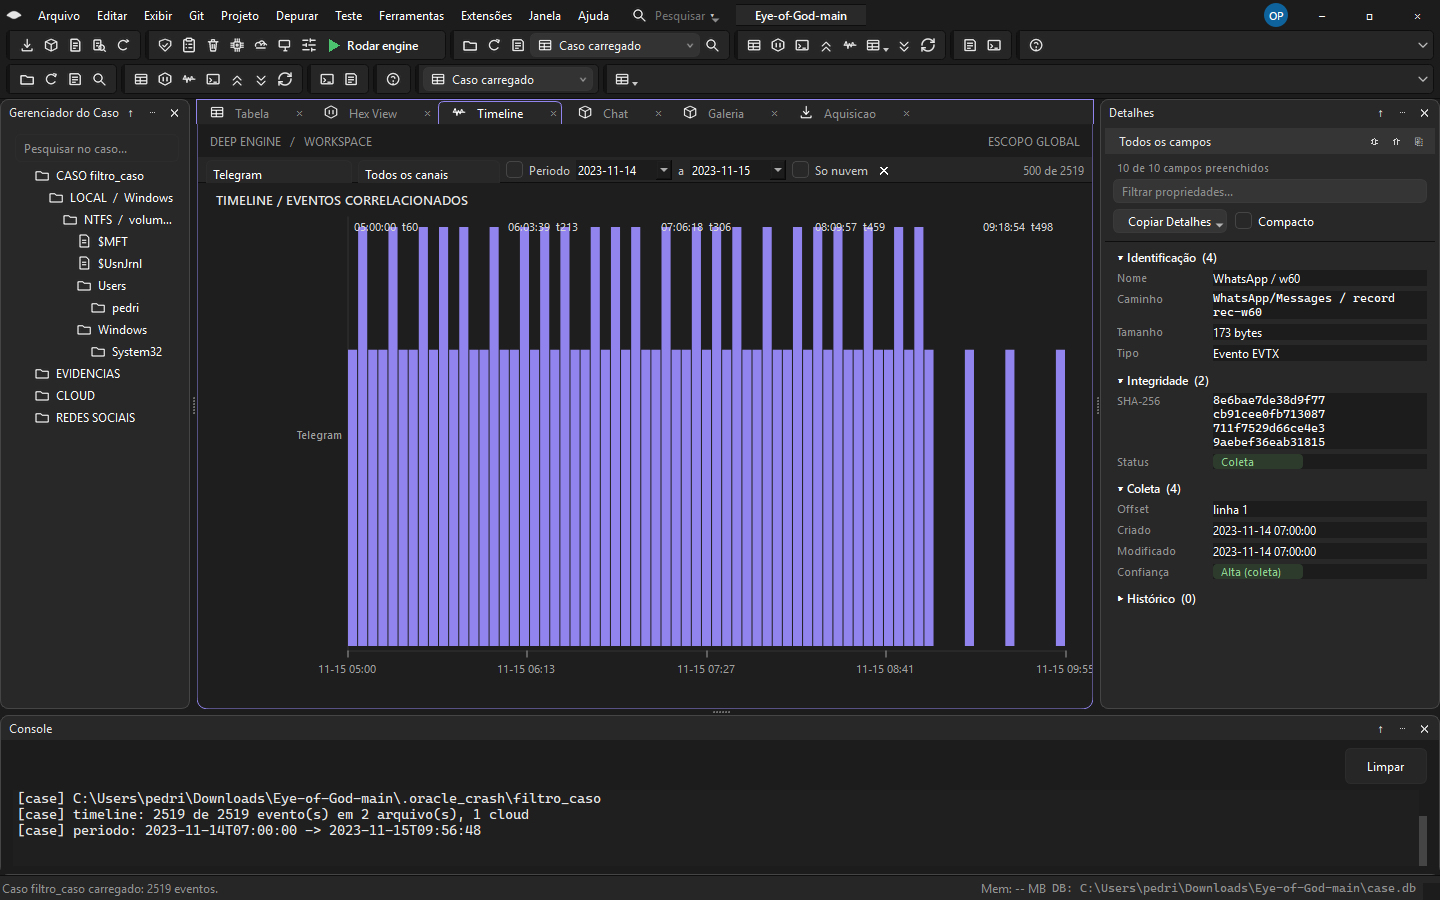
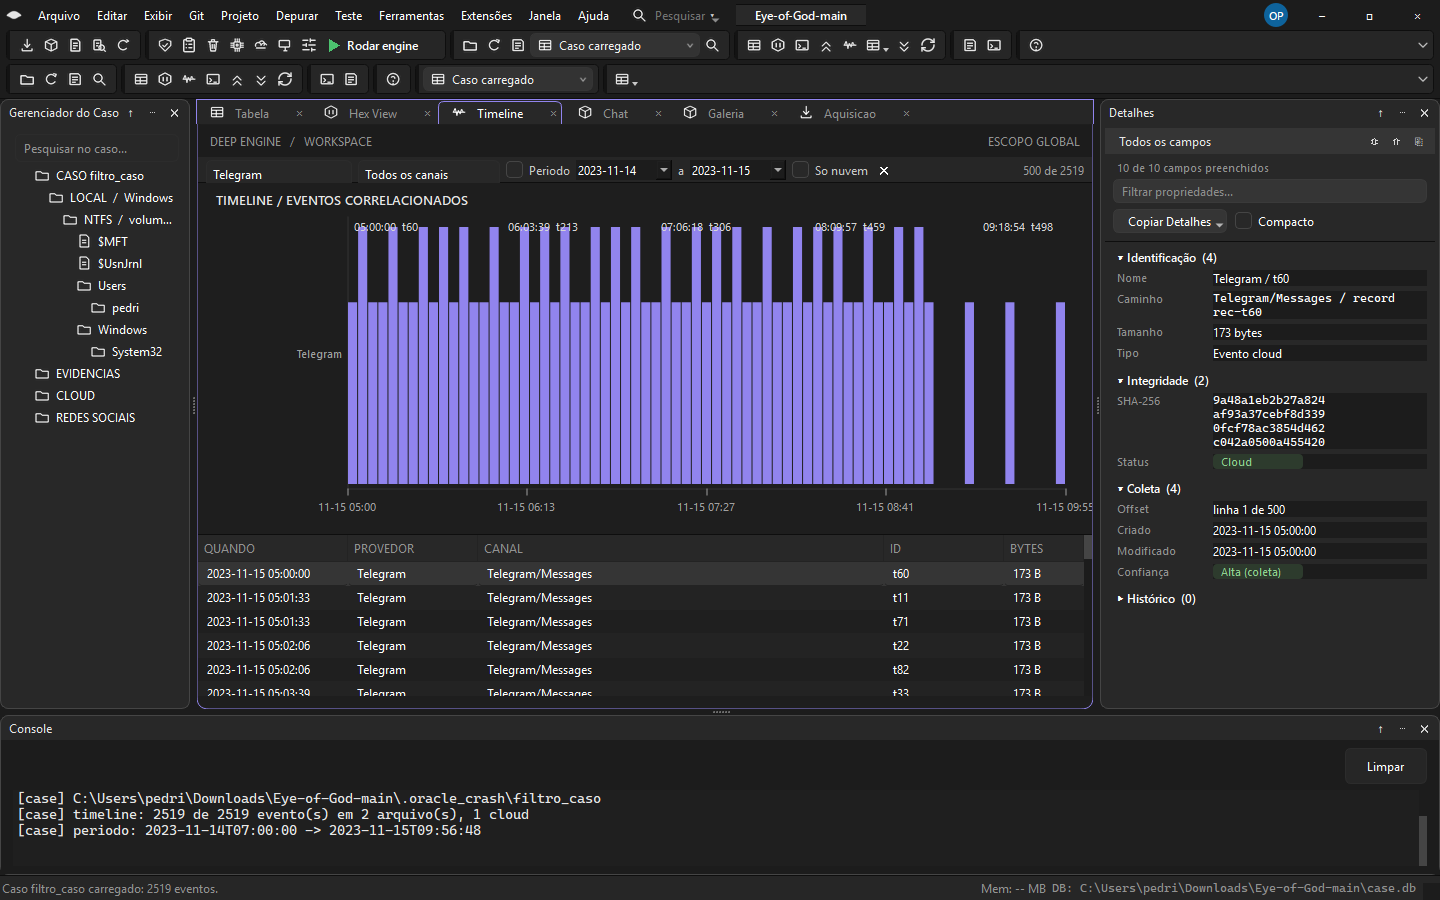
Timeline: give the tab its own event list, filtered with the graph
The filter used to change only the drawing, so the operator had nowhere to read
the events that survived it - the Tabela tab is generic and lists filesystem
artifacts too. The Timeline tab now splits graph + list, both driven by the same
filter, and selecting a row feeds the Details panel and Hex View.

Details filling moved into one helper shared by the generic table and the
timeline list: two copies would drift on the first correction. The filter runs at
the END of apply_timeline, after the table's selection restore - before that, the
table's selectRow(0) overwrote the panel and described an event that was not on
screen (the screenshot caught it: list on Telegram, panel on WhatsApp).

Evidence: the gate now checks the bar number AND the list row count against an
independent PowerShell count of the raw timeline.jsonl - 6/6 (2519 / 500 / 2019 /
500 / 500 / 0). Suite 43/43.

diff --git a/mainwindow.cpp b/mainwindow.cpp
@@ -1118,6 +1118,12 @@ private:
     QDateEdit* timeline_to_ = nullptr;
     QCheckBox* timeline_cloud_only_ = nullptr;
     QLabel* timeline_filter_count_ = nullptr;
+    // Lista propria da Timeline: o filtro vale no grafico E nesta lista. A tabela
+    // generica da aba Tabela continua com a janela inteira, porque ela tambem
+    // lista artefatos do sistema de arquivos.
+    QTableView* timeline_list_ = nullptr;
+    QStandardItemModel* timeline_list_model_ = nullptr;
+    QVector<olho::ui::timeline_event> timeline_filtered_events_;
     QString pending_filter_spec_;   // --filter do modo evidencia, aplicado na carga
     QTimer* timeline_timer_ = nullptr;
     // Progresso da carga: o worker escreve, o timer le. Um atomico por bloco de
@@ -4237,17 +4243,19 @@ private:
         return page;
     }
 
-    void update_details(int row) {
+    /* Um unico lugar preenche o painel Detalhes. A tabela generica e a lista da
+       Timeline chegam por caminhos diferentes, mas tem que mostrar a MESMA ficha:
+       duas copias divergiriam na primeira correcao. */
+    void fill_details(const QString& name, const QString& path, const QByteArray& raw,
+                      const QDateTime& when, const QString& status, const QString& type,
+                      const QString& offset_text) {
         if (details_name_ == nullptr) return;
-        if (row < 0 || row >= table_model_->rowCount()) return;
-        const QByteArray raw = row_raw_.value(row);
-        const QDateTime when = row_time_.value(row);
-        details_name_->setText(table_model_->item(row, 0)->text());
-        details_path_->setText(table_model_->item(row, 1)->text());
+        details_name_->setText(name);
+        details_path_->setText(path);
         details_size_->setText(QString("%1 bytes").arg(raw.size()));
-        details_status_->setText(table_model_->item(row, 4)->text());
-        details_type_->setText(raw.size() > 0 ? "Evento EVTX" : "Artefato");
-        details_offset_->setText(QString("linha %1").arg(row + 1));
+        details_status_->setText(status);
+        details_type_->setText(type);
+        details_offset_->setText(offset_text);
         details_created_->setText(when.isValid() ? when.toString("yyyy-MM-dd HH:mm:ss") : "-");
         details_modified_->setText(when.isValid() ? when.toString("yyyy-MM-dd HH:mm:ss") : "-");
         details_confidence_->setText(raw.size() > 0 ? "Alta (coleta)" : "Media");
@@ -4263,6 +4271,18 @@ private:
         details_hash_->setToolTip(hash);
         refresh_details_summary();
         apply_details_filter();
+    }
+
+    void update_details(int row) {
+        if (details_name_ == nullptr) return;
+        if (row < 0 || row >= table_model_->rowCount()) return;
+        const QByteArray raw = row_raw_.value(row);
+        fill_details(table_model_->item(row, 0)->text(),
+                     table_model_->item(row, 1)->text(), raw, row_time_.value(row),
+                     table_model_->item(row, 4)->text(),
+                     raw.size() > 0 ? QStringLiteral("Evento EVTX")
+                                    : QStringLiteral("Artefato"),
+                     QStringLiteral("linha %1").arg(row + 1));
     }
     QWidget* build_details_panel() {
         auto* shell = new QWidget;
@@ -5623,7 +5643,64 @@ private:
         outer->addWidget(bar);
 
         timeline_view_ = new TimelineView(page);
-        outer->addWidget(timeline_view_, 1);
+
+        // Lista da propria Timeline. Sem ela o filtro so mudava o desenho e o
+        // operador nao tinha onde ler o evento - a aba Tabela e generica e mostra
+        // outra coisa.
+        timeline_list_model_ = new QStandardItemModel(0, 5, this);
+        timeline_list_model_->setHorizontalHeaderLabels(
+            {"QUANDO", "PROVEDOR", "CANAL", "ID", "BYTES"});
+        timeline_list_ = new HoverTableView;
+        timeline_list_->setObjectName("timelineGrid");
+        timeline_list_->setModel(timeline_list_model_);
+        timeline_list_->setSortingEnabled(false);
+        timeline_list_->setSelectionBehavior(QAbstractItemView::SelectRows);
+        timeline_list_->setSelectionMode(QAbstractItemView::SingleSelection);
+        timeline_list_->setAlternatingRowColors(true);
+        timeline_list_->setShowGrid(false);
+        timeline_list_->setWordWrap(false);
+        timeline_list_->verticalHeader()->setVisible(false);
+        timeline_list_->verticalHeader()->setDefaultSectionSize(24);
+        timeline_list_->horizontalHeader()->setStretchLastSection(false);
+        timeline_list_->horizontalHeader()->setSectionResizeMode(0, QHeaderView::Fixed);
+        timeline_list_->horizontalHeader()->resizeSection(0, 150);
+        timeline_list_->horizontalHeader()->setSectionResizeMode(1, QHeaderView::Fixed);
+        timeline_list_->horizontalHeader()->resizeSection(1, 130);
+        timeline_list_->horizontalHeader()->setSectionResizeMode(2, QHeaderView::Stretch);
+        timeline_list_->horizontalHeader()->setSectionResizeMode(3, QHeaderView::Fixed);
+        timeline_list_->horizontalHeader()->resizeSection(3, 120);
+        timeline_list_->horizontalHeader()->setSectionResizeMode(4, QHeaderView::Fixed);
+        timeline_list_->horizontalHeader()->resizeSection(4, 80);
+        timeline_list_->horizontalHeader()->setDefaultAlignment(Qt::AlignLeft | Qt::AlignVCenter);
+        timeline_list_->setMinimumHeight(140);
+
+        auto* split = new QSplitter(Qt::Vertical, page);
+        split->setObjectName("timelineSplit");
+        split->addWidget(timeline_view_);
+        split->addWidget(timeline_list_);
+        split->setStretchFactor(0, 3);
+        split->setStretchFactor(1, 2);
+        split->setChildrenCollapsible(false);
+        outer->addWidget(split, 1);
+
+        connect(timeline_list_->selectionModel(), &QItemSelectionModel::currentRowChanged,
+                this, [this](const QModelIndex& current, const QModelIndex&) {
+                    if (!current.isValid()) return;
+                    const int row = current.row();
+                    if (row < 0 || row >= timeline_filtered_events_.size()) return;
+                    const olho::ui::timeline_event& event = timeline_filtered_events_.at(row);
+                    fill_details(event.provider + " / " + event.event_id,
+                                 event.channel + " / record " + event.record_id,
+                                 event.raw.toUtf8(), event.when,
+                                 event.from_cloud ? QStringLiteral("Cloud")
+                                                  : QStringLiteral("Coleta"),
+                                 event.from_cloud ? QStringLiteral("Evento cloud")
+                                                  : QStringLiteral("Evento EVTX"),
+                                 QStringLiteral("linha %1 de %2")
+                                     .arg(row + 1)
+                                     .arg(timeline_filtered_events_.size()));
+                    if (hex_view_ != nullptr) hex_view_->set_data(event.raw.toUtf8());
+                });
 
         connect(timeline_provider_, &QComboBox::currentIndexChanged, this, [this](int) {
             reload_timeline_filter_options();
@@ -5731,14 +5808,45 @@ private:
                           kept.events.at(i).event_id);
         }
         timeline_view_->set_events(times, labels);
+
+        // A lista mostra TUDO o que passou pelo filtro (o grafico amostra para
+        // desenhar). Selecionar uma linha alimenta Detalhes e Hex View.
+        timeline_filtered_events_ = kept.events;
+        if (timeline_list_model_ != nullptr) {
+            timeline_list_model_->removeRows(0, timeline_list_model_->rowCount());
+            for (const olho::ui::timeline_event& event : kept.events) {
+                QList<QStandardItem*> items;
+                items << new QStandardItem(event.when.isValid()
+                                               ? event.when.toString("yyyy-MM-dd HH:mm:ss")
+                                               : QStringLiteral("-"));
+                items << new QStandardItem(event.provider);
+                items << new QStandardItem(event.channel);
+                items << new QStandardItem(event.event_id);
+                items << new QStandardItem(QStringLiteral("%1 B").arg(event.raw.size()));
+                timeline_list_model_->appendRow(items);
+            }
+            // Filtrar troca o conjunto: a selecao volta para a primeira linha, senao
+            // o painel Detalhes continuaria falando de um evento que nao esta na
+            // tela (foi assim que a foto pegou "WhatsApp/w60" com a lista em Telegram).
+            if (timeline_list_model_->rowCount() > 0 && timeline_list_ != nullptr) {
+                timeline_list_->selectRow(0);
+            }
+            // No modo evidencia a lista tambem fala: a foto mostra as linhas, mas
+            // o numero conferivel fica no log (sem OCR).
+            if (g_gui_evidence_mode) {
+                std::printf("lista: %d linhas\n", timeline_list_model_->rowCount());
+                std::fflush(stdout);
+            }
+        }
+
         // Grafico vazio por filtro nao e a mesma coisa que caso sem timeline.
         if (kept.matched == 0 && !timeline_result_.events.isEmpty()) {
             timeline_view_->set_empty_text(
                 QStringLiteral("O filtro escondeu os %1 eventos carregados")
                     .arg(timeline_result_.events.size()),
                 QStringLiteral("Nada passou pelo filtro atual. Limpe o filtro (x) ou amplie o "
-                               "periodo. A aba Tabela e o painel Detalhes continuam mostrando "
-                               "a janela inteira carregada."));
+                               "periodo. A aba Tabela continua mostrando a janela inteira "
+                               "carregada."));
         } else {
             timeline_view_->set_empty_text(
                 QStringLiteral("Nenhum evento de timeline neste caso"),
@@ -5757,11 +5865,11 @@ private:
             short_text = loaded == 0 ? QStringLiteral("timeline vazia")
                                      : QStringLiteral("%1 eventos").arg(loaded);
             long_text = loaded == 0
-                            ? QStringLiteral("grafico: timeline vazia")
-                            : QStringLiteral("grafico: %1 eventos, sem filtro").arg(loaded);
+                            ? QStringLiteral("timeline: vazia")
+                            : QStringLiteral("timeline: %1 eventos, sem filtro").arg(loaded);
         } else {
             short_text = QStringLiteral("%1 de %2").arg(kept.matched).arg(loaded);
-            long_text = QStringLiteral("grafico: %1 de %2 carregados").arg(kept.matched).arg(loaded);
+            long_text = QStringLiteral("timeline: %1 de %2 carregados").arg(kept.matched).arg(loaded);
             if (kept.no_time > 0) {
                 long_text += QStringLiteral("  /  %1 sem data fora do periodo").arg(kept.no_time);
             }
@@ -5951,17 +6059,9 @@ private:
                       .arg(timeline.events.size())
                       .arg(cloud_files));
         }
-        // Combos e grafico saem do resultado recem-carregado. O filtro nao rele o
-        // caso: ele reprojeta o que ja esta em timeline_result_.
-        reload_timeline_filter_options();
-        apply_timeline_filter();
-        // --filter do modo evidencia entra AQUI e nao no setup: neste ponto os
-        // combos ja conhecem os provedores do caso recem-carregado.
-        if (!pending_filter_spec_.isEmpty()) {
-            const QString spec = pending_filter_spec_;
-            pending_filter_spec_.clear();
-            apply_filter_spec(spec);
-        }
+        // O filtro da Timeline e aplicado NO FIM desta funcao, depois da selecao
+        // da tabela: se rodasse aqui, o selectRow(0) da tabela sobrescreveria o
+        // painel Detalhes e ele voltaria a falar de um evento fora da lista.
 
         append(QString("[case] timeline: %1 de %2 evento(s) em %3 arquivo(s), %4 cloud\n")
                    .arg(timeline.events.size())
@@ -6026,6 +6126,17 @@ private:
             table_->selectRow(0);
             update_details(0);
             if (hex_view_ && !row_raw_.isEmpty()) hex_view_->set_data(row_raw_.first());
+        }
+        // Combos, lista e grafico saem do resultado recem-carregado. O filtro nao
+        // rele o caso: ele reprojeta o que ja esta em timeline_result_.
+        reload_timeline_filter_options();
+        apply_timeline_filter();
+        // --filter do modo evidencia entra aqui e nao no setup: neste ponto os
+        // combos ja conhecem os provedores do caso recem-carregado.
+        if (!pending_filter_spec_.isEmpty()) {
+            const QString spec = pending_filter_spec_;
+            pending_filter_spec_.clear();
+            apply_filter_spec(spec);
         }
         if (status_label_ && !case_id.isEmpty()) {
             status_label_->setText(QString("Caso %1 carregado: %2 eventos.")

diff --git a/docs/TIMELINE-FILTROS.md b/docs/TIMELINE-FILTROS.md
@@ -33,9 +33,11 @@ roxa no grafico.
    e a janela carregada (teto de exibicao, 5.000 por padrao), nao
    necessariamente o total do caso. O total do caso continua no rotulo da Tabela e
    na linha `[case] timeline: ...` do console.
-6. **Escopo: o grafico.** O filtro age no grafico da Timeline. A aba Tabela e o
-   painel Detalhes seguem mostrando a janela inteira - por isso o texto do
-   contador comeca com `grafico:`.
+6. **Escopo: a linha do tempo.** O filtro age no grafico E na lista da propria
+   aba Timeline (a lista mostra todos os eventos que passaram; o grafico amostra
+   para desenhar). A aba Tabela continua com a janela inteira, porque ela tambem
+   lista artefatos do sistema de arquivos. Selecionar uma linha da lista alimenta o
+   painel Detalhes e o Hex View.
 7. **Grafico vazio tem duas causas, com textos diferentes.** "Nenhum evento de
    timeline neste caso" so aparece quando `timeline.jsonl` nao existe; quando o
    filtro e que escondeu tudo, o cartao diz "O filtro escondeu os 2.519 eventos
@@ -70,7 +72,7 @@ nos mesmos widgets (nao existe caminho paralelo de teste):
 ```
 
 Chaves aceitas: `provider`, `channel`, `from`, `to` (`yyyy-MM-dd`), `cloud`
-(`1`/`0`). O log imprime `barra: grafico: 500 de 2519 carregados (filtro esconde 2019)`.
+(`1`/`0`). O log imprime `barra: timeline: 500 de 2519 carregados (filtro esconde 2019)`.
 
 ## Limites conhecidos
 
